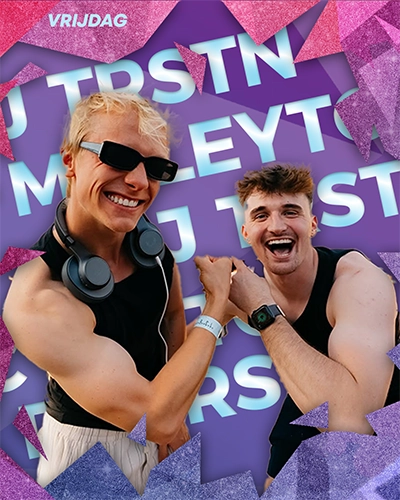
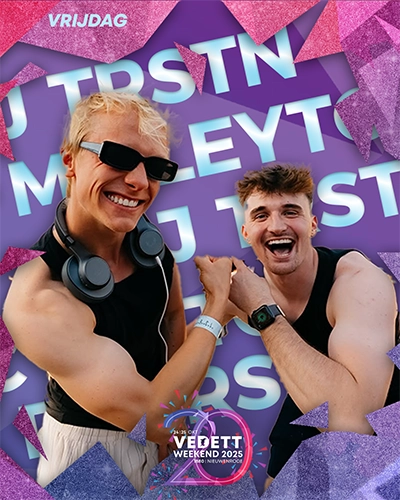
Content: update Featured Artists "featured_artists_list"

Changed region(s): [[0.3, 0.72, 0.72, 1.0]]

diff --git a/content/home/featured-artists.md b/content/home/featured-artists.md
@@ -7,11 +7,11 @@ featured_artists:
     djName: DJ TRSTN & MC LEYTON
     websiteUrl: https://www.facebook.com/vedettweekend
     websiteIcon: fa fa-link
-  - name: TBA
-    dateBadge: TBA
-    image: /img/uploads/tba-25.webp
+  - name: JØMEL
+    dateBadge: VR 24 OKT
+    image: /img/uploads/jomel.webp
     title: "CHECK IT OUT:"
-    djName: TBA
+    djName: JØMEL
     websiteUrl: https://www.facebook.com/vedettweekend
     websiteIcon: fa fa-link
   - name: TBA
